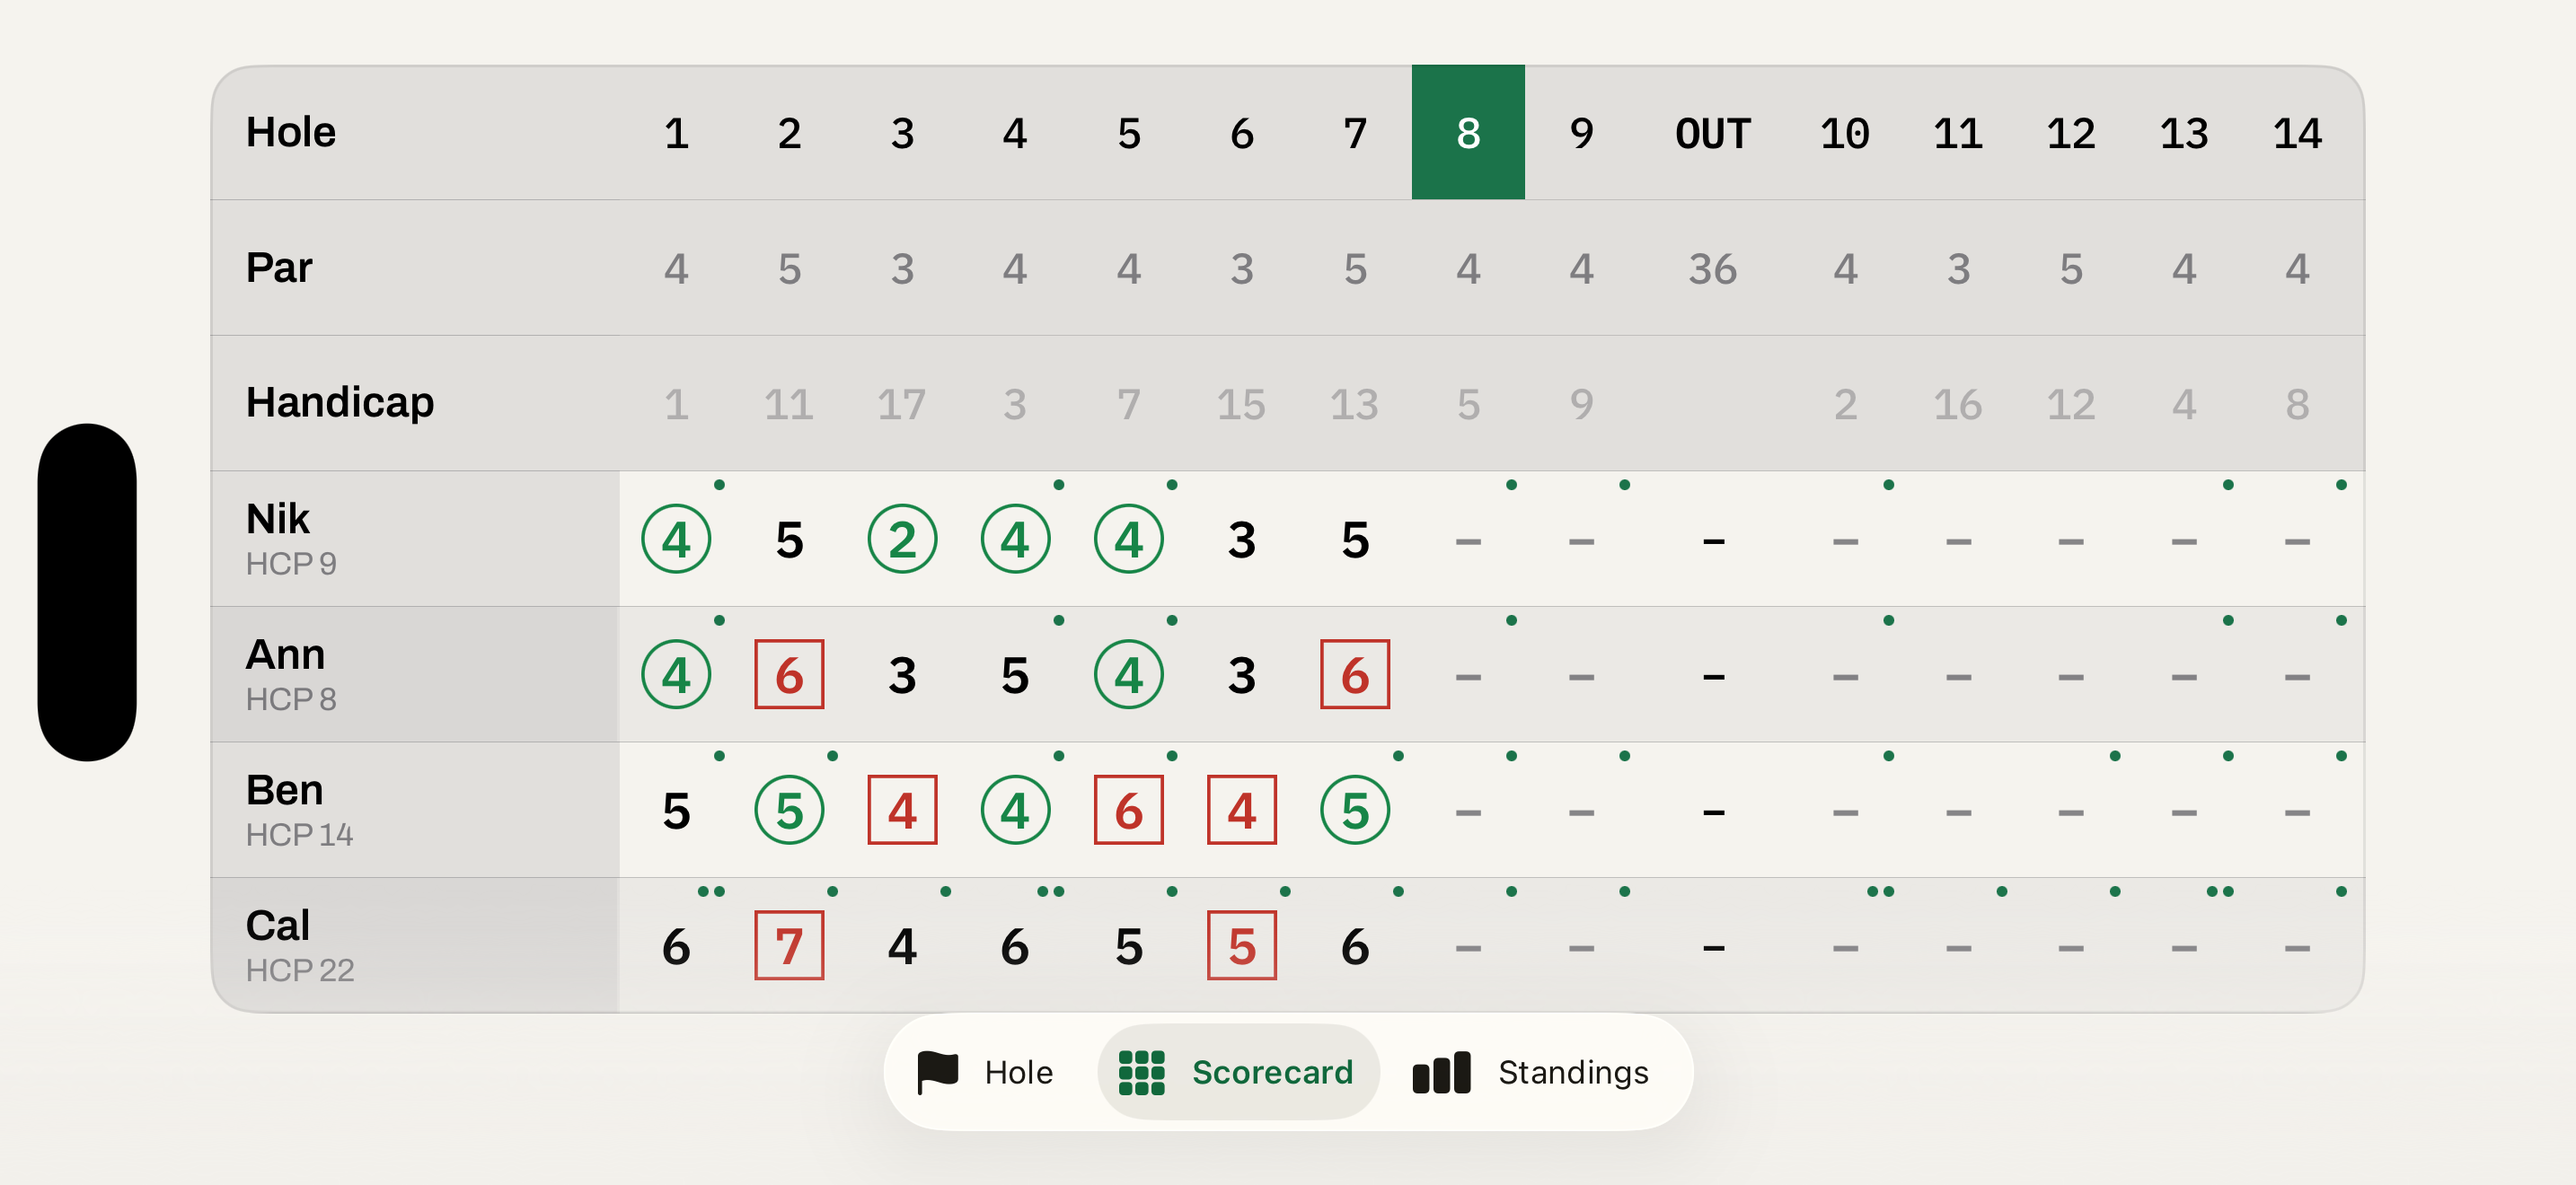
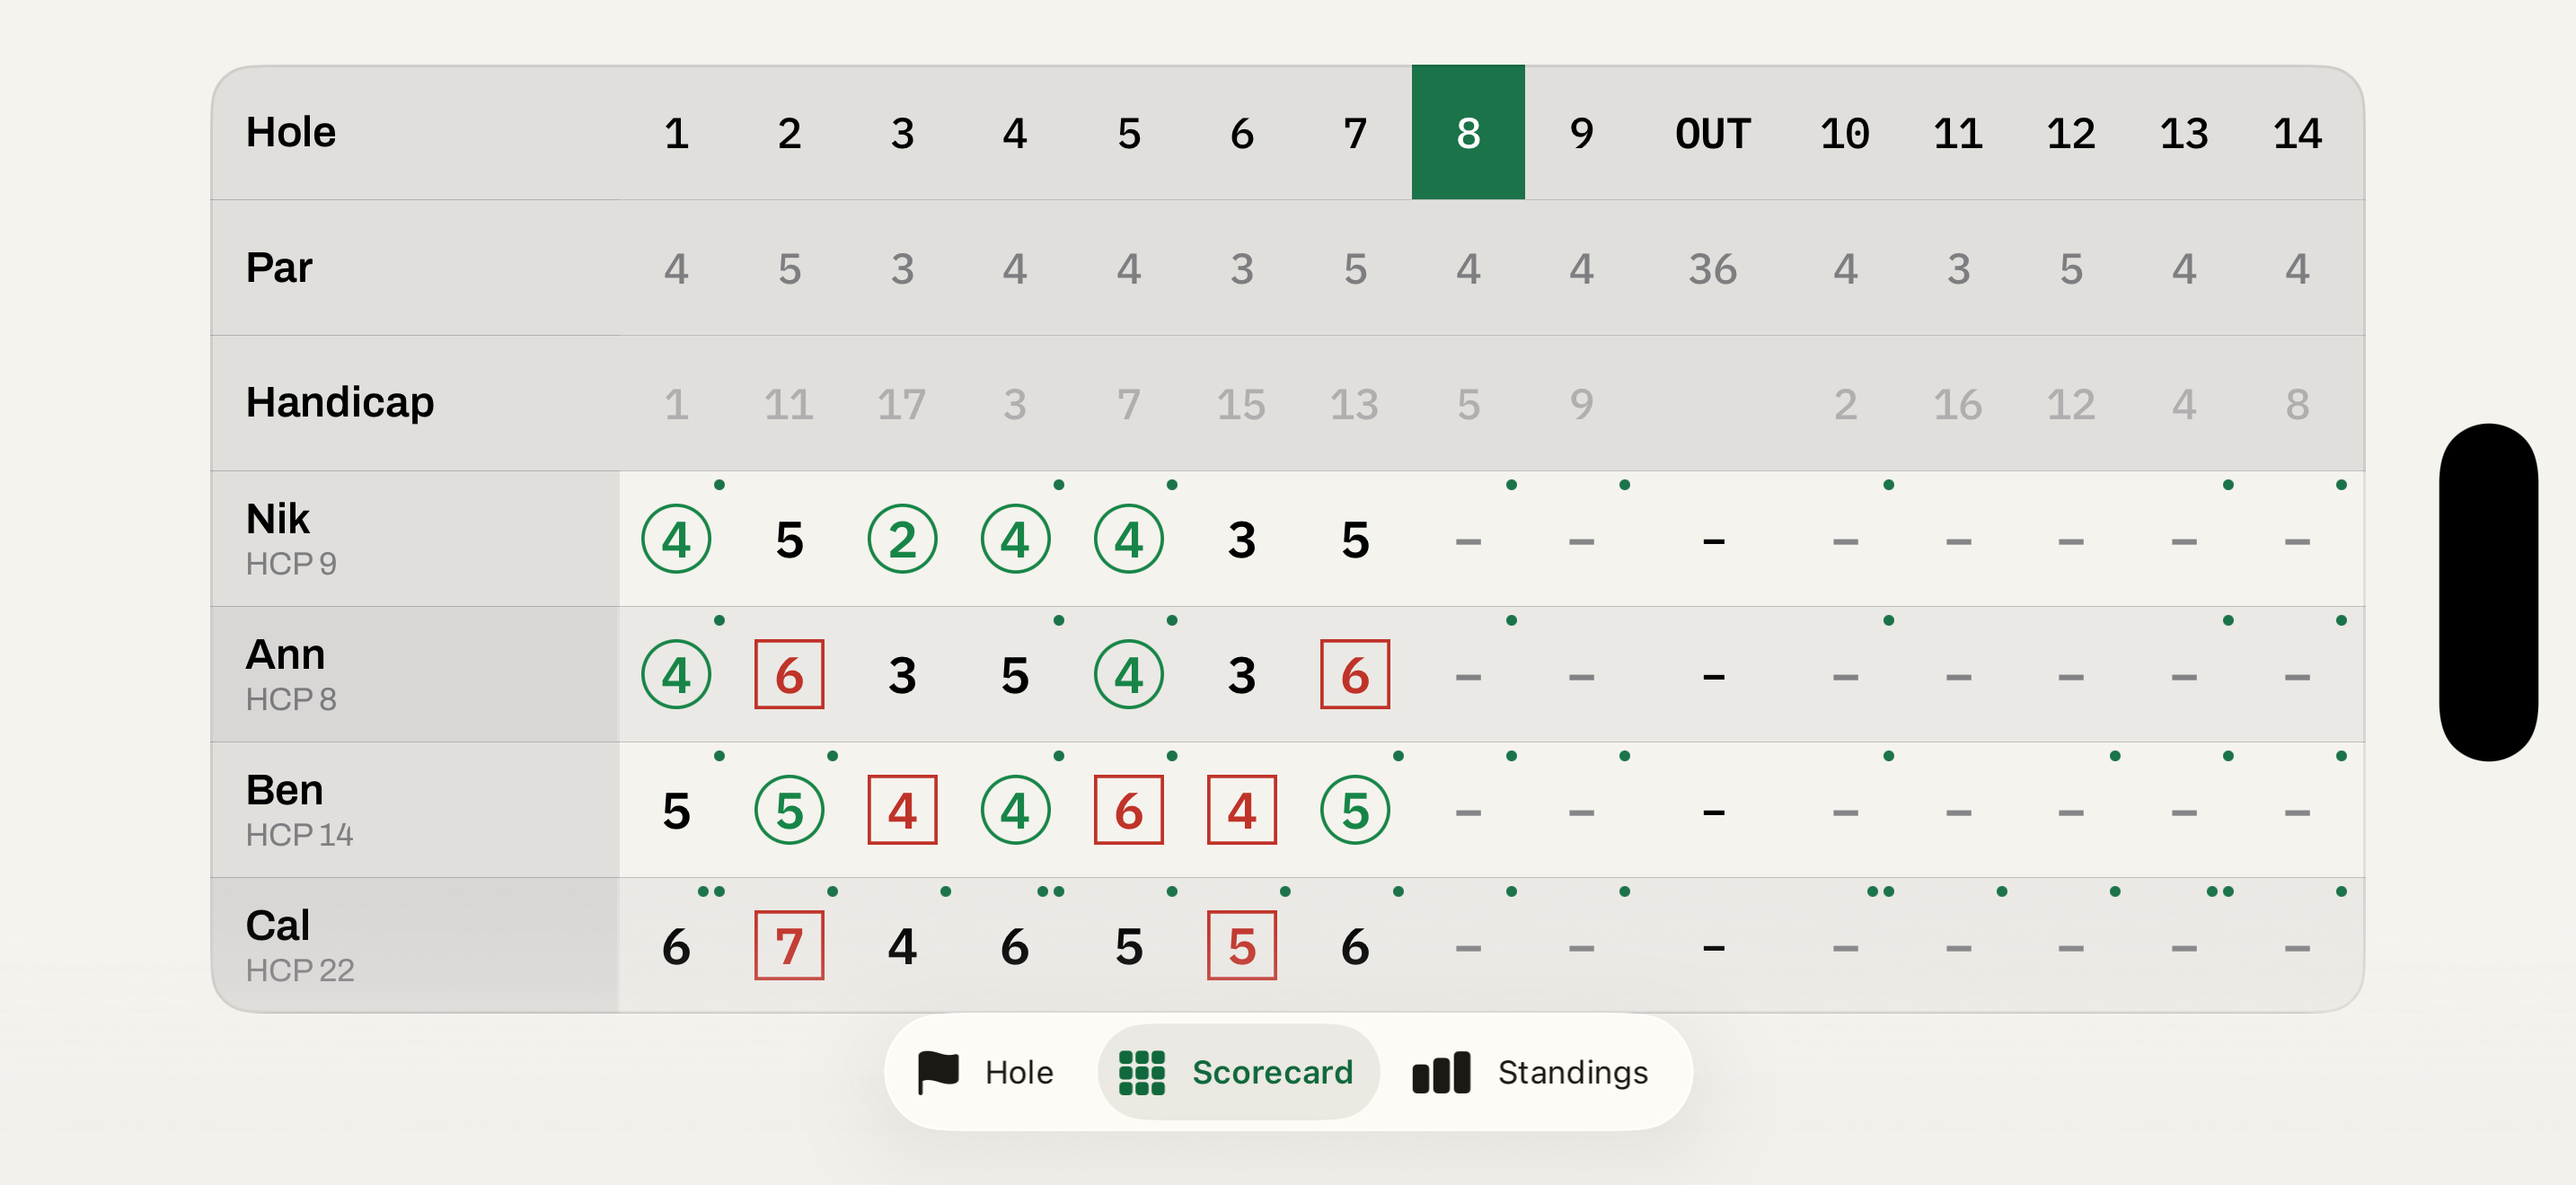
Recapture the landscape scorecard screenshot
Completes the set: all five iPhone screenshots are now from the same seeded
run on 2026-09-06.

This one needs the device in landscape, which simctl cannot do — the
Simulator window's own Rotate button can. `simctl io screenshot` then still
writes the frame in portrait with the landscape content lying on its side, so
it is stood up with `sips -r 90`. Real pixels at 2868 x 1320, not an upscale.
Steps recorded in the submission doc for next time.

Changed region(s): [[0.931, 0.3417, 0.993, 0.6523], [0.0, 0.3417, 0.0621, 0.6523], [0.5896, 0.9008, 0.6206, 0.9318]]

diff --git a/docs/app-store/submission.md b/docs/app-store/submission.md
@@ -229,10 +229,13 @@ network requests at all; the course database ships inside the binary.
 Captured at exact required sizes from `docs/app-store/screenshots/`. Plain device captures, no
 framing. Apple auto-scales the 6.9" set to smaller iPhones, so no other iPhone size is needed.
 
-Screenshots 1–4 recaptured on 2026-09-06. Screenshot 5 is from 2026-09-05 and still accurate —
-nothing on the phone changed in between — but it could not be retaken, because it needs the
-simulator rotated to landscape and neither `simctl` nor the simulator-control tooling can rotate a
-device. To refresh it: rotate the simulator (Cmd+Left Arrow) on the Scorecard tab and capture.
+All five recaptured on 2026-09-06 from a freshly seeded simulator.
+
+To retake number 5: the Scorecard tab needs the device in landscape, which `simctl` cannot do —
+use the Rotate button in the Simulator window's own toolbar. Note that `simctl io … screenshot`
+then still writes the frame in portrait, with the landscape content lying on its side, so finish
+with `sips -r 90 05-scorecard.png` to stand it up. The result is a true 2868 × 1320 capture, not an
+upscale.
 
 ### iPhone 6.9" — 1320 × 2868 (required)
 
